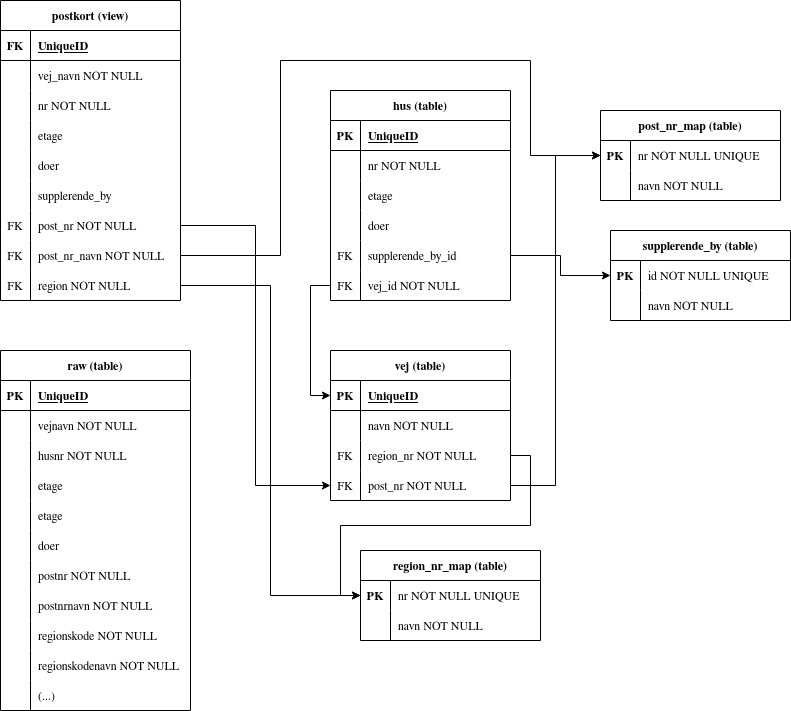
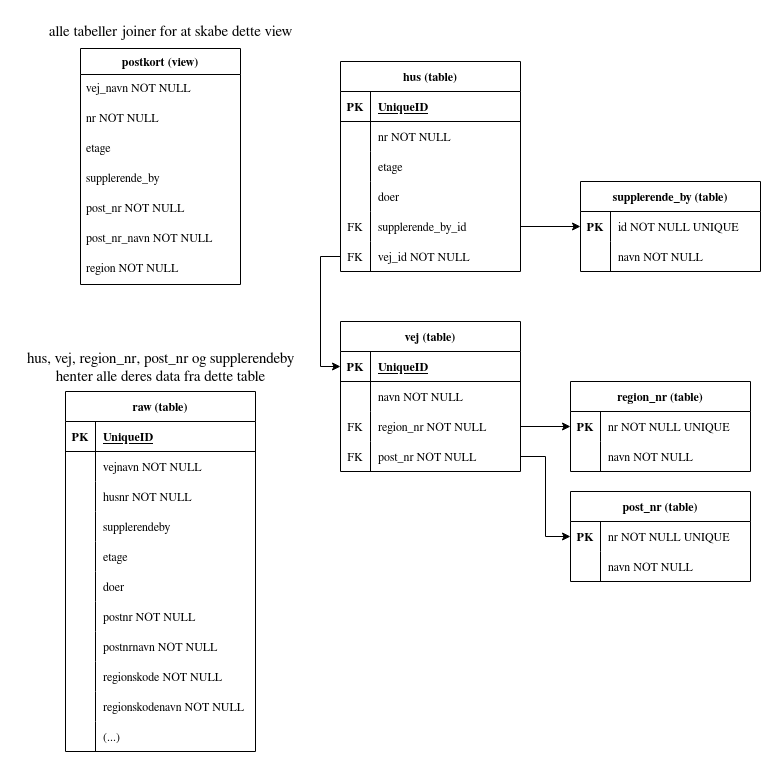
graphs update

diff --git a/str-opg-01/import/db_api/utils/views.go b/str-opg-01/import/db_api/utils/views.go
@@ -46,13 +46,13 @@ func Postcard(db *sql.DB) {
 			hus.doer,
 			supplerende_by.navn as supplerende_by, 
 			vej.post_nr, 
-			post_nr_map.navn AS post_nr_navn, 
-			region_nr_map.navn AS region
+			post_nr.navn AS post_nr_navn, 
+			region_nr.navn AS region
 		FROM (hus)
 		LEFT JOIN (supplerende_by) ON (hus.supplerende_by_id = supplerende_by.id)
 		JOIN (vej) ON (vej.id = hus.vej_id)
-		JOIN (post_nr_map) ON (vej.post_nr = post_nr_map.nr)
-		JOIN (region_nr_map) ON (vej.region_nr = region_nr_map.nr)
+		JOIN (post_nr) ON (vej.post_nr = post_nr.nr)
+		JOIN (region_nr) ON (vej.region_nr = region_nr.nr)
 	`)
 	createQuery := fmt.Sprintf("CREATE VIEW postkort AS %s", selectQuery)
 	_, err = db.Exec(createQuery)
@@ -116,8 +116,8 @@ func Road(db *sql.DB) {
 			navn %s,
 			post_nr %s,
 			region_nr %s,
-			FOREIGN KEY (post_nr) REFERENCES post_nr_map(nr),
-			FOREIGN KEY (region_nr) REFERENCES region_nr_map(nr)
+			FOREIGN KEY (post_nr) REFERENCES post_nr(nr),
+			FOREIGN KEY (region_nr) REFERENCES region_nr(nr)
 		)`,
 		types["id"],
 		types["vejnavn"],
@@ -138,11 +138,11 @@ func Road(db *sql.DB) {
 }
 
 func PostCodeMap(db *sql.DB) {
-	_, err := db.Exec("DROP TABLE IF EXISTS hus, vej, post_nr_map")
+	_, err := db.Exec("DROP TABLE IF EXISTS hus, vej, post_nr")
 	utils.LogError(err)
 
 	types := defs.TableSQLTypes()
-	createQuery := fmt.Sprintf(`CREATE TABLE post_nr_map (nr %s, navn %s)`,
+	createQuery := fmt.Sprintf(`CREATE TABLE post_nr (nr %s, navn %s)`,
 		types["postnr"]+" UNIQUE PRIMARY KEY",
 		types["postnrnavn"])
 
@@ -150,17 +150,17 @@ func PostCodeMap(db *sql.DB) {
 	utils.LogError(err)
 
 	valuesQuery := `SELECT DISTINCT postnr AS nr, postnrnavn AS navn FROM raw`
-	insertQuery := fmt.Sprintf("INSERT INTO post_nr_map %s", valuesQuery)
+	insertQuery := fmt.Sprintf("INSERT INTO post_nr %s", valuesQuery)
 	_, err = db.Exec(insertQuery)
 	utils.LogError(err)
 }
 
 func RegionCodeMap(db *sql.DB) {
-	_, err := db.Exec("DROP TABLE IF EXISTS hus, vej, region_nr_map")
+	_, err := db.Exec("DROP TABLE IF EXISTS hus, vej, region_nr")
 	utils.LogError(err)
 
 	types := defs.TableSQLTypes()
-	createQuery := fmt.Sprintf(`CREATE TABLE region_nr_map (nr %s, navn %s)`,
+	createQuery := fmt.Sprintf(`CREATE TABLE region_nr (nr %s, navn %s)`,
 		types["regionskode"]+" UNIQUE PRIMARY KEY",
 		types["regionsnavn"])
 
@@ -168,7 +168,7 @@ func RegionCodeMap(db *sql.DB) {
 	utils.LogError(err)
 
 	valuesQuery := `SELECT DISTINCT regionskode AS nr, regionsnavn AS navn FROM raw`
-	insertQuery := fmt.Sprintf("INSERT INTO region_nr_map %s", valuesQuery)
+	insertQuery := fmt.Sprintf("INSERT INTO region_nr %s", valuesQuery)
 	_, err = db.Exec(insertQuery)
 	utils.LogError(err)
 }
